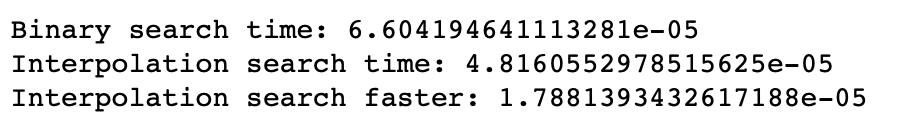
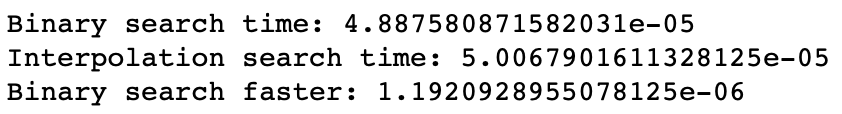
add changes

Changed region(s): [[0.0, 0.6579, 0.9572, 0.9474], [0.0, 0.3947, 0.9881, 0.6316], [0.0, 0.1053, 0.8337, 0.3421]]

diff --git a/search/bynarySearch.py b/search/bynarySearch.py
@@ -1,7 +1,7 @@
 #!/usr/bin/env python
 # coding: utf-8
 
-# In[15]:
+# In[26]:
 
 
 import time
@@ -71,7 +71,7 @@ def findQ(arr, first, last):
     return (index_of_smaller + 1);   
 
 
-# In[16]:
+# In[27]:
 
 
 a=[1,2,31,4,5,16,7,8,9,56,554,245,234,14,3,6,22,11,26,17,13]
@@ -93,7 +93,7 @@ interTime = time.time() - interTime
 # print(a)
 print('Binary search time:', binTime)
 print('Interpolation search time:', interTime)
-print('Interpolation search faster:', binTime - interTime)
+print('Binary search faster:', interTime - binTime)
 
 
 # In[2]:
